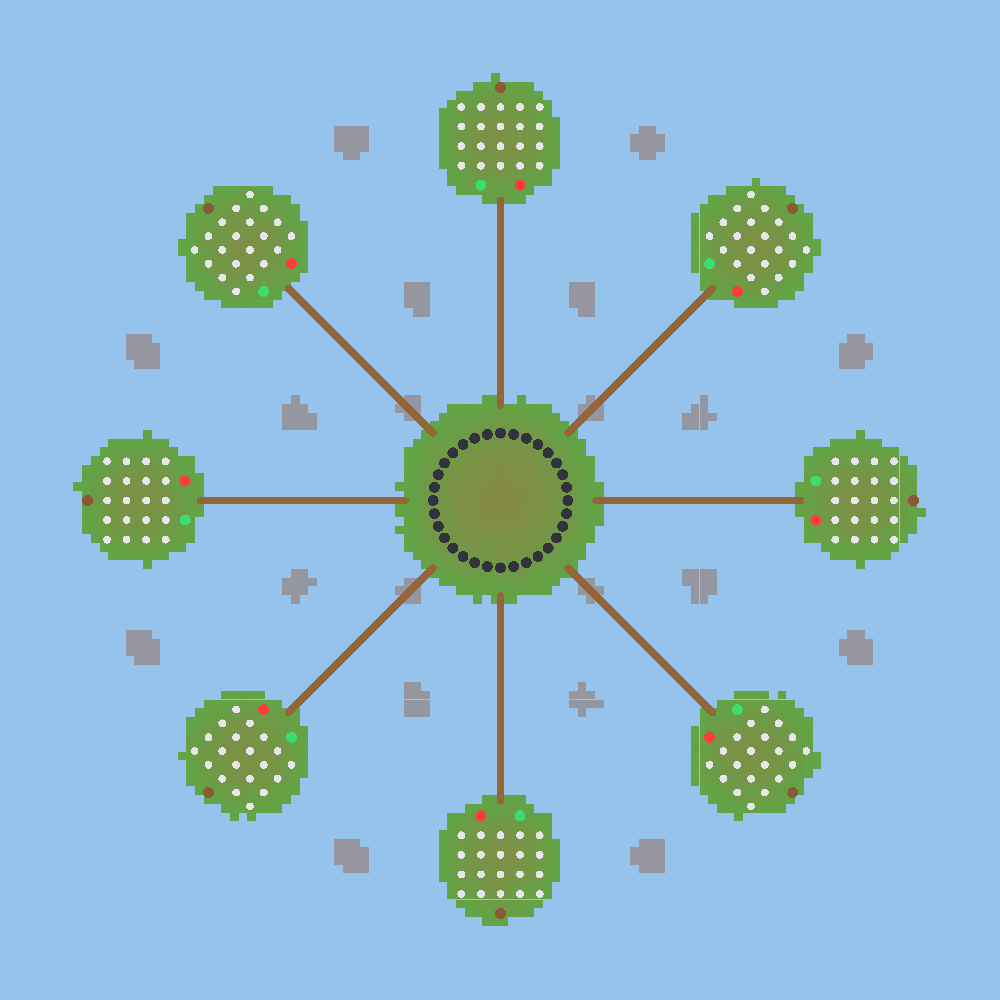
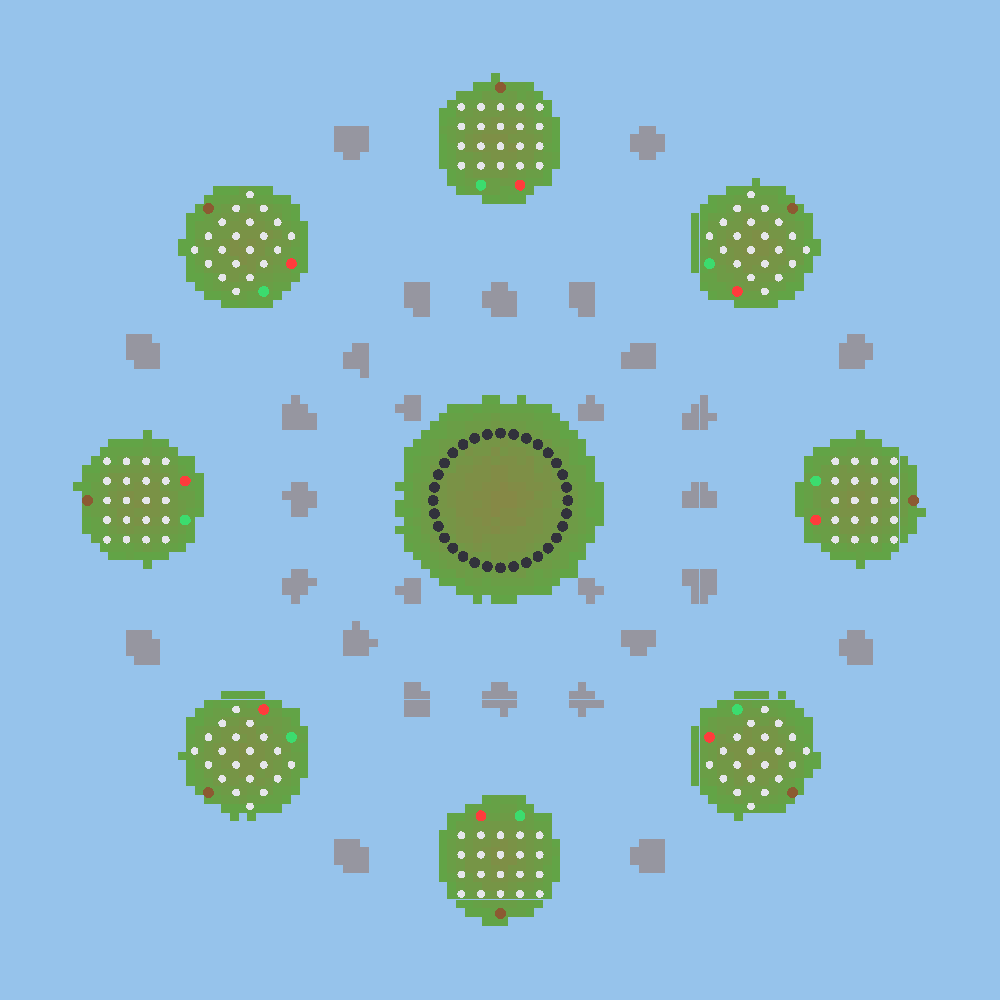
Ingen broer, tyngre last, kast opp på kanten, skumlere Halloween, ingen musikk
- Broene er borte: man må svinge seg over; ny trappestein midt mellom hver base og Reiret
- Kast opp på kanten: når tauet har dratt deg inn mot siden/undersiden av en øy, kastes du i en
  bue opp på toppen (med salto)
- Last har vekt etter sjeldenhet: kortere tau, tregere inntrekk og lavere gangfart jo sjeldnere
- Halloween: skumringslys, lilla tåke, flere gresskar og flaggermus, skummel vind i stedet for fuglesang
- Musikken er fjernet

diff --git a/README.md b/README.md
@@ -4,9 +4,10 @@ Sving deg mellom svevende øyer med gripekrok, kjøp rare egg, klekk sjeldne fug
 fuglene fra de andres baser! Rykk tyvene ned fra himmelen før de stikker av med din Phoenix.
 
 - **Reiret i midten:** egg ruller rundt på et transportbånd. Kjøp med E og bær egget hjem over hodet.
-- **8 baser** på svevende blokk-øyer med hengebroer inn til Reiret. Eggene klekkes på soklene og blir fugler
+- **8 baser** på svevende blokk-øyer. Ingen broer: du må svinge deg over med kroken (trappesteiner hjelper, og
+  når tauet drar deg helt inn mot en øy, blir du kastet opp på kanten). Eggene klekkes på soklene og blir fugler
   som tjener penger hvert sekund. Hent pengene på COLLECT-platen.
-- **Stjel:** hold E på en fugl i en annen base og løp hjem med den. Eieren får alarm og kan rykke deg med kroken.
+- **Stjel:** hold E på en fugl i en annen base og sving deg hjem med den — jo sjeldnere, jo tyngre å bære. Eieren får alarm og kan rykke deg med kroken.
   Da ragdoller du, blir svimmel, og fuglen flyr hjem igjen.
 - **LOCK-knappen** gir et skjold over basen en stund. Nye spillere har 3 minutter nybegynnerskjold.
 - **31 fugler** i 7 sjeldenheter (Common → Secret) + 5 Halloween-fugler (36 i alt), med mutasjoner (Gold,

diff --git a/PLAN.md b/PLAN.md
@@ -24,7 +24,7 @@
 
 - **Reiret:** en stor blokk-øy i midten med et kjempereir og eggebåndet rundt.
 - **8 baser:** svevende blokk-øyer i en ring rundt reiret, ca. 165 studs fra midten. Hver base har:
-  - hengebro inn til Reiret
+  - ingen broer — man må svinge seg over (trappesteiner på veien, og «kast opp på kanten»)
   - 16 sokler (6 åpne fra start)
   - LOCK-knapp, COLLECT-plate og et skilt med navnet ditt
 - **Svevesteiner** mellom øyene til å svinge seg i, og skyhav under.
@@ -167,5 +167,6 @@ Senere kommer **Rebirth**: du starter på nytt og får mer inntekt for alltid.
 
 - **Tapt lagring er det verste.** Vi bruker session lock, prøver på nytt ved feil og tester med falsk DataStore.
 - **Juksing:** serveren sjekker avstand, pris, eierskap og tidtakere.
-- **Kroken kan være vanskelig for nybegynnere.** Hengebroene gjør at alle kan gå.
+- **Kroken kan være vanskelig for nybegynnere.** Trappesteiner på veien, kast opp på kanten når tauet er dratt
+  helt inn, og veiledningen viser vei. Jo sjeldnere egg/fugl du bærer, jo tyngre (kortere tau, tregere inntrekk).
 - **Vi trenger mange fugler.** Fuglebyggeren `tools/blender/fugler.py` gjør at en ny fugl tar ca. 20 linjer kode.
